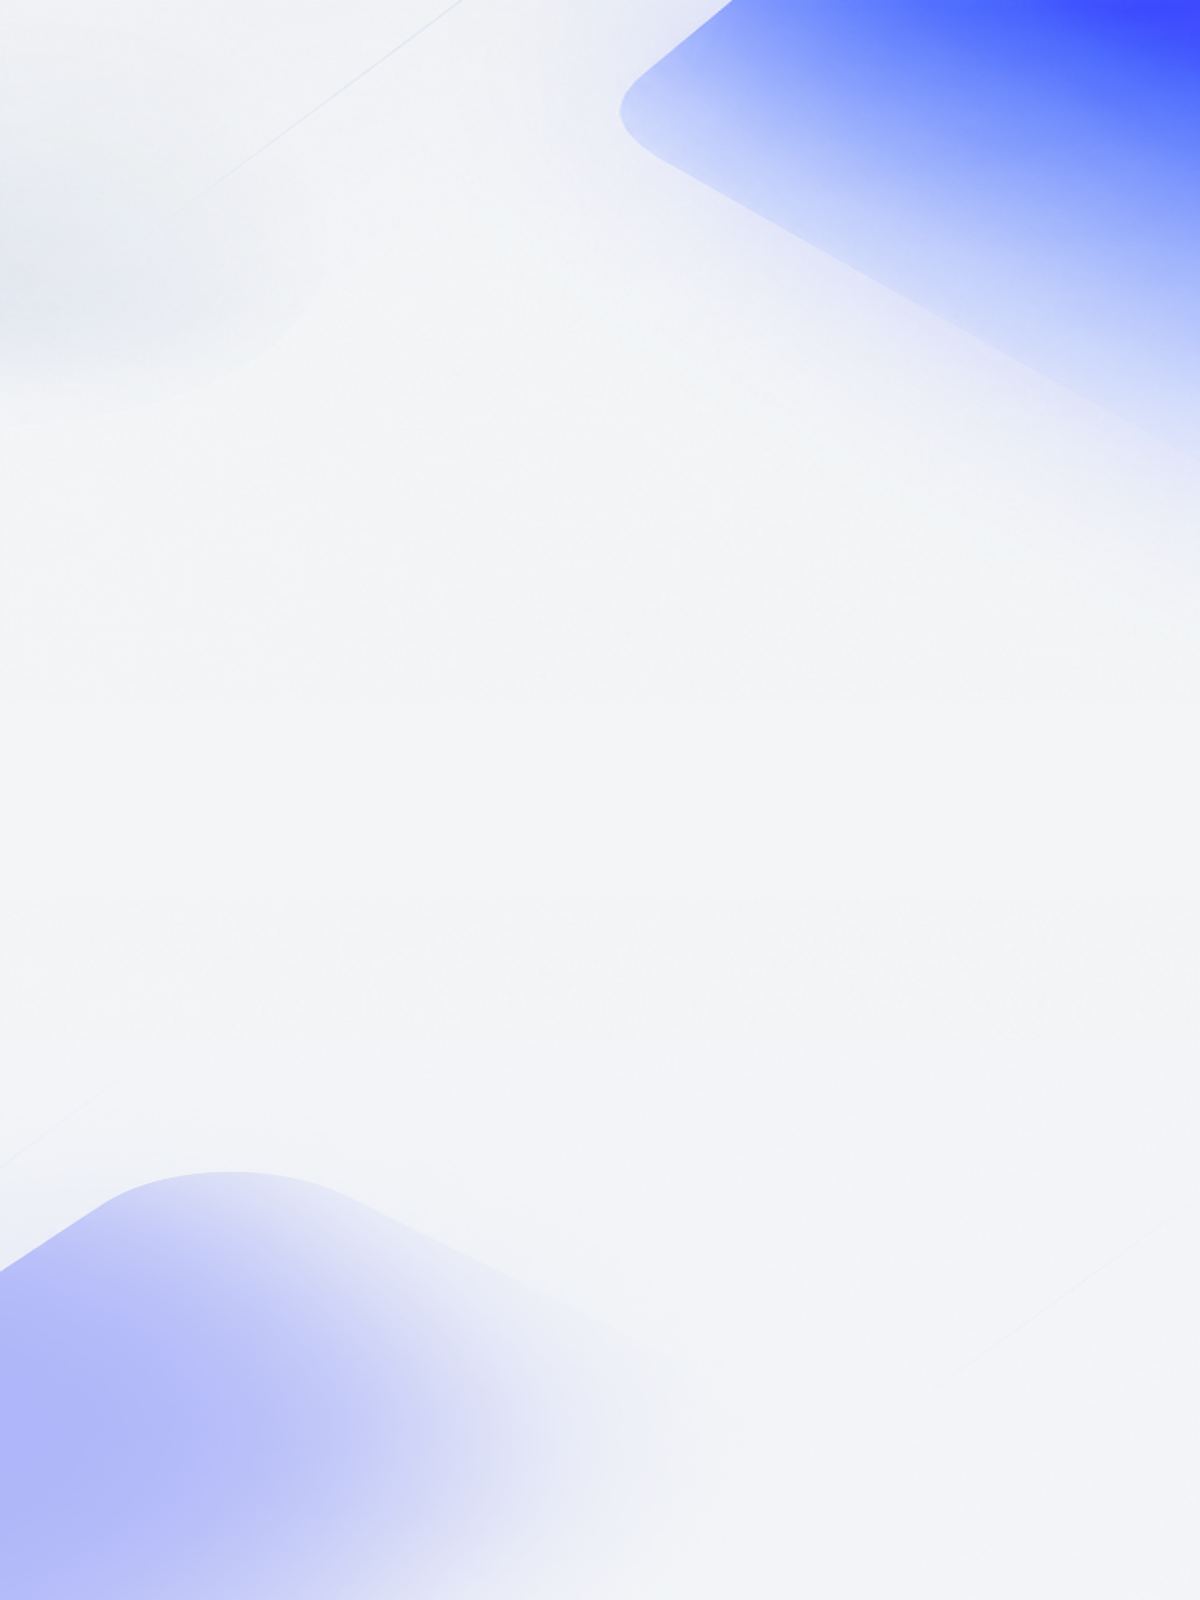
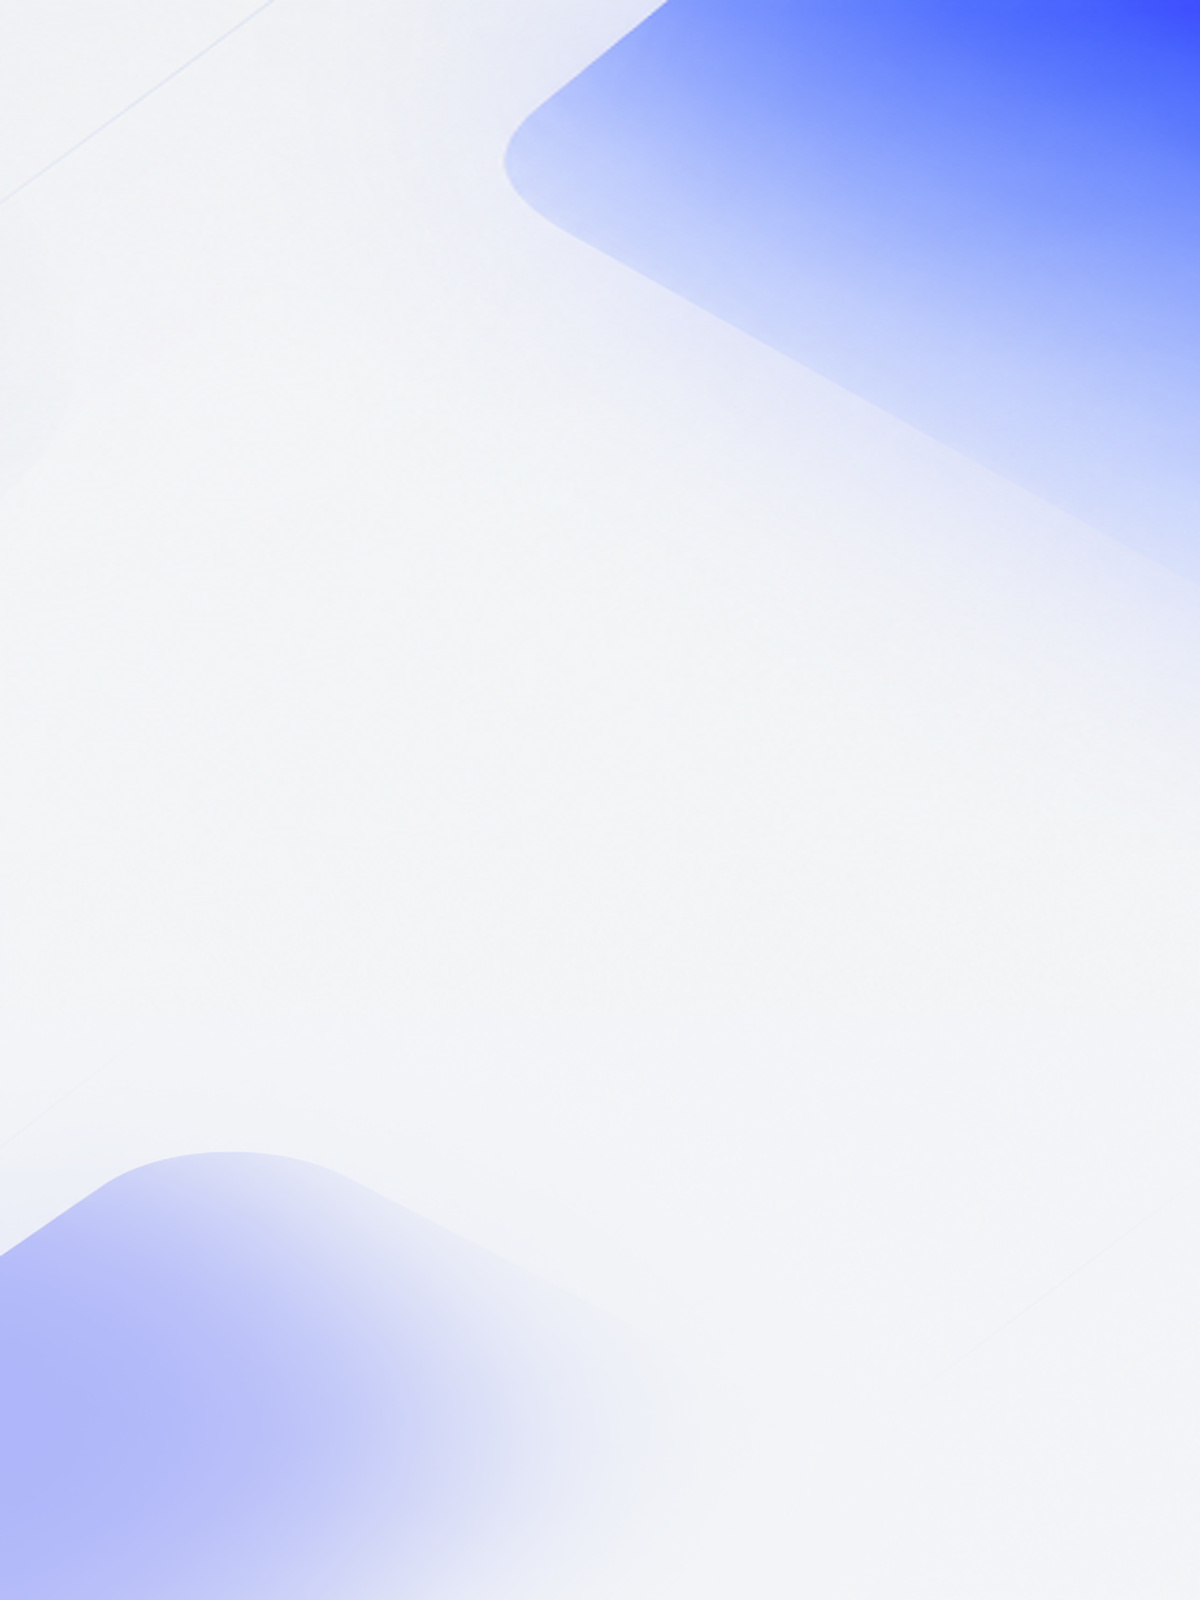
Reposition top-right blue design elements for mobile and tablet responsiveness

Changed region(s): [[0.4008, 0.0, 1.0, 0.375], [0.0, 0.7188, 0.185, 0.8125]]

diff --git a/index.html b/index.html
@@ -61,7 +61,7 @@
 
     @media (max-width: 1024px) {
       body::before {
-        background-image: url('bg_pattern_tablet.png?v=1');
+        background-image: url('bg_pattern_tablet.png?v=2');
       }
 
       /* Seamless feathered top curtain matching the exact page background so scrolling text softly fades out */
@@ -72,7 +72,7 @@
         z-index: 25;
         pointer-events: none;
         background-color: #F3F5F6;
-        background-image: url('bg_pattern_tablet.png?v=1');
+        background-image: url('bg_pattern_tablet.png?v=2');
         background-size: cover;
         background-position: center center;
         background-repeat: no-repeat;
@@ -100,7 +100,7 @@
     @media (max-width: 640px) {
       body::before,
       body::after {
-        background-image: url('bg_pattern_light.png?v=3');
+        background-image: url('bg_pattern_light.png?v=5');
       }
     }
 
